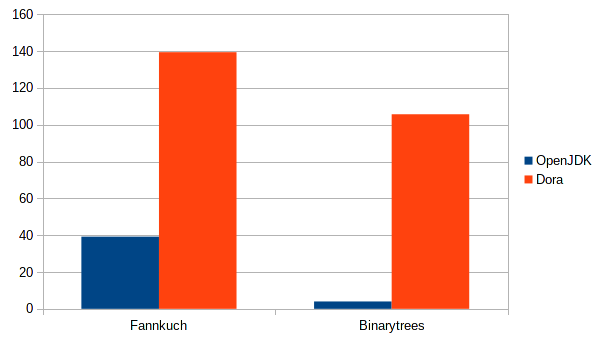
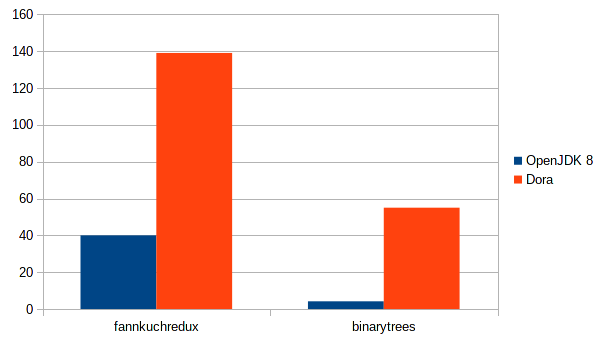
updating benchmark

diff --git a/content/blog/dora-rust.md b/content/blog/dora-rust.md
@@ -98,7 +98,7 @@ Marking one object means setting the mark-flag and recursively traversing throug
 A nice property of the marking phase is that cycles in the object graph are no problem.
 On the other hand you need to be careful to avoid stack overflows when you have deeply nested object graphs, so you probably shouldn't implement marking through an recursive function call.
 That's the reason I just add the objects into a [Vec](https://doc.rust-lang.org/std/vec/struct.Vec.html) instead of using the stack.
-When sweeping, the garbage collector runs through all allocated objects and frees unmarked objects.
+When sweeping, the garbage collector simply runs through all allocated objects and frees unmarked objects.
 
 The GC really just uses libc's `malloc` for allocating objects and `free` while *Sweeping*.
 All allocated objects are connected in a single linked list.
@@ -161,7 +161,7 @@ I chose the fastest single-threaded Java implementation (dora does not support m
 
 ![Benchmark results](/images/dora-bench-game.png)
 
-For `fannkuch-redux` Dora is only 3.6 times slower than the Java equivalent running on OpenJDK (version 1.8.0_112), the benchmark results for `binarytrees` are way worse: Dora is 26x slower.
+For `fannkuch-redux` Dora is only 3.5 times (40s to 138s) slower than the Java equivalent running on OpenJDK (version 1.8.0_112), the benchmark results for `binarytrees` are worse: Dora is 14x slower (55s instead of 4s).
 This is easily explained: `binarytrees` stresses the GC and the current implementation isn't really the most efficient.
 We will later look into this benchmark in more detail.
 
@@ -192,16 +192,15 @@ Dora also supports emitting garbage collection stats with `--gc-stats`:
 
 ```
 GC stats:
-	duration: 65394 ms
-	malloc duration: 25462 ms
-	collect duration: 17746 ms
-		mark duration: 1422 ms
-		sweep duration: 16323 ms
+	collect duration: 17715 ms
+	607475118 allocations
 	75 collections
 	29158805890 bytes allocated
 ```
 
-We see that Dora spends 65 seconds just for allocating memory and collecting garbage.
+We see that Dora spends 17 seconds alone for collecting garbage, this benchmarks makes over 600 million allocations to allocate a total of about 27GB memory.
+At first I also wanted to benchmark allocation duration but this was way too expensive.
+Just by removing those `time::precise_time_ns` invocations reduced run-time from 110s to 55s.
 
 ### Using Rust
 A few words on using Rust: I started the project to try out Rust on a non-trivial project.
